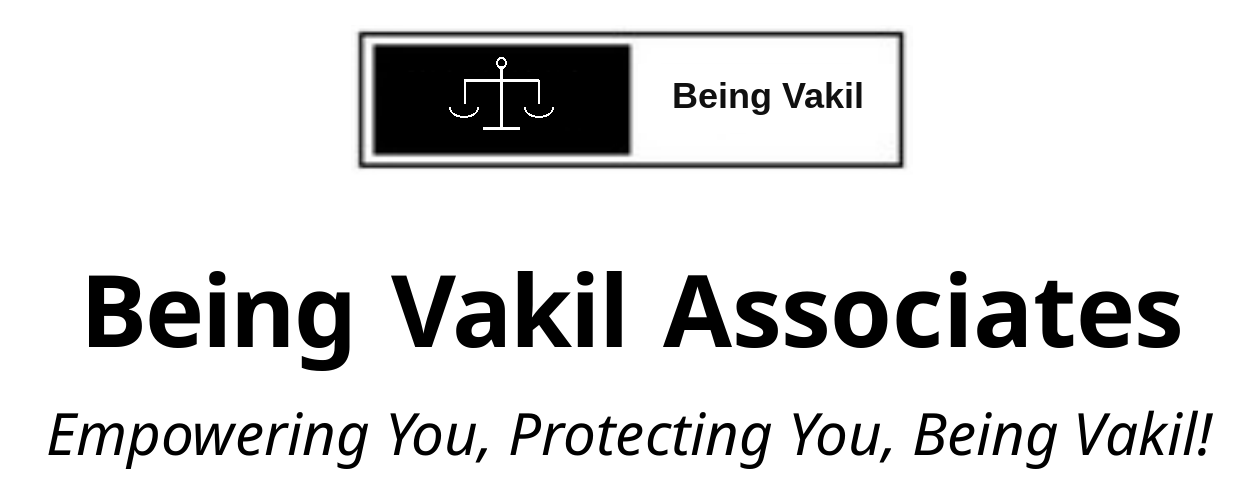
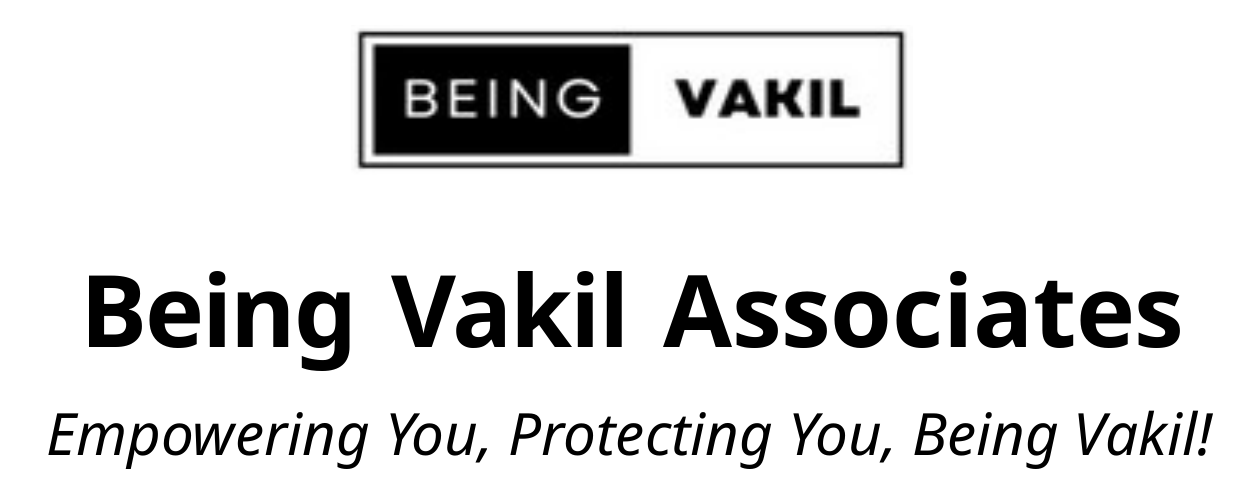
Restore the BEING | VAKIL Word letterhead on the notice and unlock page.
The scales mark had replaced the boxed firm header. The letter and the unlock page use the original header again, and a longer notice still continues onto the next A4 page.

Changed region(s): [[0.3095, 0.119, 0.4952, 0.2679], [0.5262, 0.1488, 0.7119, 0.2381]]

diff --git a/src/lib/notice-layout.test.ts b/src/lib/notice-layout.test.ts
@@ -1,8 +1,14 @@
 import assert from "node:assert/strict";
+import { createHash } from "node:crypto";
 import { readFileSync } from "node:fs";
 import test from "node:test";
 import { renderNoticePdf, noticePdfPageCount, NOTICE_BODY_PT, NOTICE_MARGIN_PT } from "./notice-pdf";
 import { LEGAL_NOTICE_FORMAT_TEXT } from "./legal-notice-templates";
+
+// Word letterhead before the scales mark was swapped in. Header is the BEING | VAKIL
+// boxed mark plus the firm name and tagline. Mark is that boxed mark on its own.
[2 lines of base64/hex data omitted]
 
 const css = readFileSync(new URL("../app/globals.css", import.meta.url), "utf8");
 const pdfSource = readFileSync(new URL("./notice-pdf.ts", import.meta.url), "utf8");
@@ -36,6 +42,14 @@ test("the on-screen letter is A4, 12pt Times, and is not locked to one page", ()
   assert.match(letter, /FIRM_TAGLINE/);
   assert.match(letterhead, /Being Vakil Associates/);
   assert.match(letterhead, /Empowering You, Protecting You, Being Vakil!/);
+  assert.equal(letter.includes("being-vakil-social"), false);
+  assert.equal(letter.includes("BrandLogo"), false);
+  const headerPng = readFileSync(new URL("../../public/branding/letterhead-header.png", import.meta.url));
+  const markPng = readFileSync(new URL("../../public/branding/letterhead-mark.png", import.meta.url));
+  assert.equal(createHash("sha256").update(headerPng).digest("hex"), WORD_HEADER_SHA256);
+  assert.equal(createHash("sha256").update(markPng).digest("hex"), WORD_MARK_SHA256);
+  assert.equal(headerPng.readUInt32BE(16), 1260);
+  assert.equal(headerPng.readUInt32BE(20), 504);
 });
 
 test("a long notice PDF stays on A4 at 12pt and continues onto another page", async () => {

diff --git a/src/lib/letterhead.ts b/src/lib/letterhead.ts
@@ -1,6 +1,7 @@
 // Firm details taken from the Being Vakil Associates Word letterhead.
-// The page shows public/branding/letterhead-header.png and letterhead-footer.png,
-// which are a render of that Word file.
+// public/branding/letterhead-header.png is that Word header: the BEING | VAKIL
+// boxed mark, the full firm name, and the tagline. letterhead-mark.png is the
+// same boxed mark on its own. Neither file is the social scales logo.
 
 export const FIRM_NAME = "Being Vakil Associates";
 export const FIRM_TAGLINE = "Empowering You, Protecting You, Being Vakil!";
